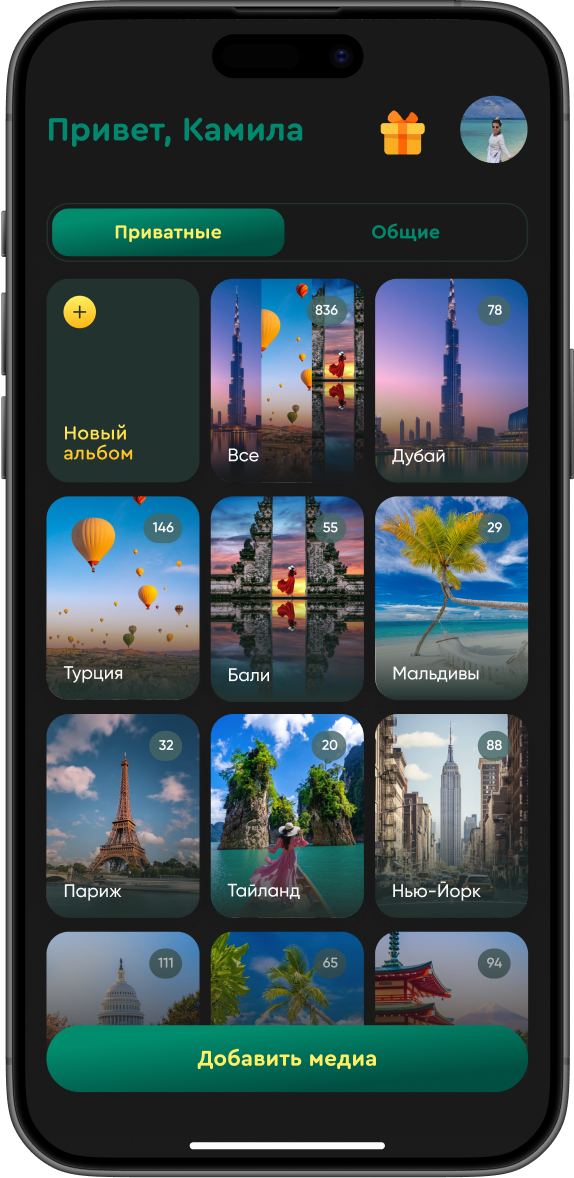
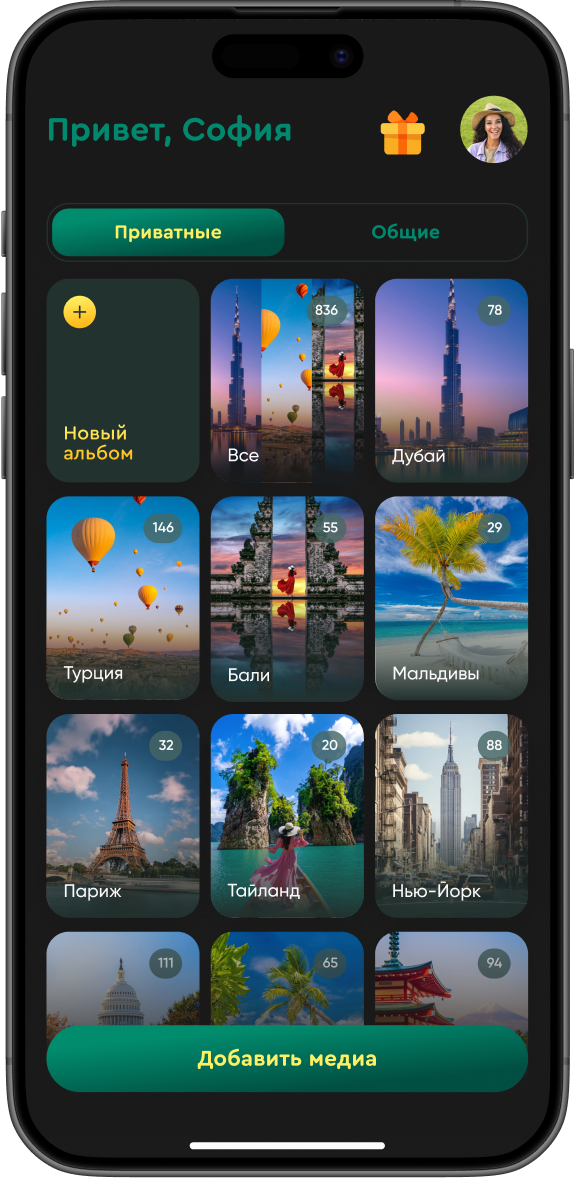
main updated

Changed region(s): [[0.7997, 0.0611, 0.9181, 0.1528], [0.3258, 0.0917, 0.5331, 0.1222]]

diff --git a/src/app/(page)/limitless/ui/try-it/index.tsx b/src/app/(page)/limitless/ui/try-it/index.tsx
@@ -6,13 +6,10 @@ export const TryIt: FC = () => {
     <section className="pt-[160px] pb-[148px]">
       <div className="max-w-[1080px] mx-auto px-4 text-center">
         <h2 className="text-yellow-darker text-2xl md:text-4xl lg:text-5xl mb-6 font-apple font-black uppercase text-balance">
-          Готовы попробовать?
+          Coming soon...
         </h2>
         <p className="text-lg md:text-2xl leading-tight mb-14 text-balance text-[#B9B9B9]">
-          MonClips Gallery — бесконечная память для твоих путешествий.{" "}
-          <br className="md:block hidden" />
-          Ты не обязана выбирать, что оставить. Сохрани всё. Просто. Красиво.
-          Навсегда.
+          MonClips Gallery — бесконечная память для твоих путешествий
         </p>
         <div className="flex justify-center">
           <SendApplicationButton />

diff --git a/src/app/(page)/limitless/ui/traveling/index.tsx b/src/app/(page)/limitless/ui/traveling/index.tsx
@@ -10,9 +10,9 @@ export const Traveling: FC = () => {
             <h2 className="text-yellow-darker text-2xl md:text-4xl lg:text-5xl mb-4 font-apple font-black uppercase md:text-balance">
               Сохраняй каждую поездку
             </h2>
-            <p className="text-lg md:text-2xl text-balance max-w-[462px]">
-              Мальдивы, Париж, Стамбул, Бали... Ты можешь хранить сколько угодно
-              снимков —{" "}
+            <p className="text-lg md:text-2xl max-w-[494px]">
+              Дубай, Мальдивы, Париж, Стамбул, Бали... Ты можешь хранить сколько
+              угодно снимков —{" "}
               <span className="text-yellow-darker">
                 бесплатно и без подписки
               </span>

diff --git a/src/app/(page)/limitless/page.tsx b/src/app/(page)/limitless/page.tsx
@@ -1,13 +1,13 @@
 import { Header } from "@/widgets/header";
 import { Footer } from "@/widgets/footer";
 import {
-  Application,
-  Design,
+  // Application,
+  // Design,
   Hero,
-  HowToUse,
+  // HowToUse,
   Traveling,
   TryIt,
-  WhyItPossible,
+  // WhyItPossible,
 } from "./ui";
 
 export default function Limitless() {
@@ -16,10 +16,10 @@ export default function Limitless() {
       <Header isWider />
       <Hero />
       <Traveling />
-      <WhyItPossible />
+      {/* <WhyItPossible />
       <Design />
       <HowToUse />
-      <Application />
+      <Application /> */}
       <TryIt />
       <Footer />
     </main>
